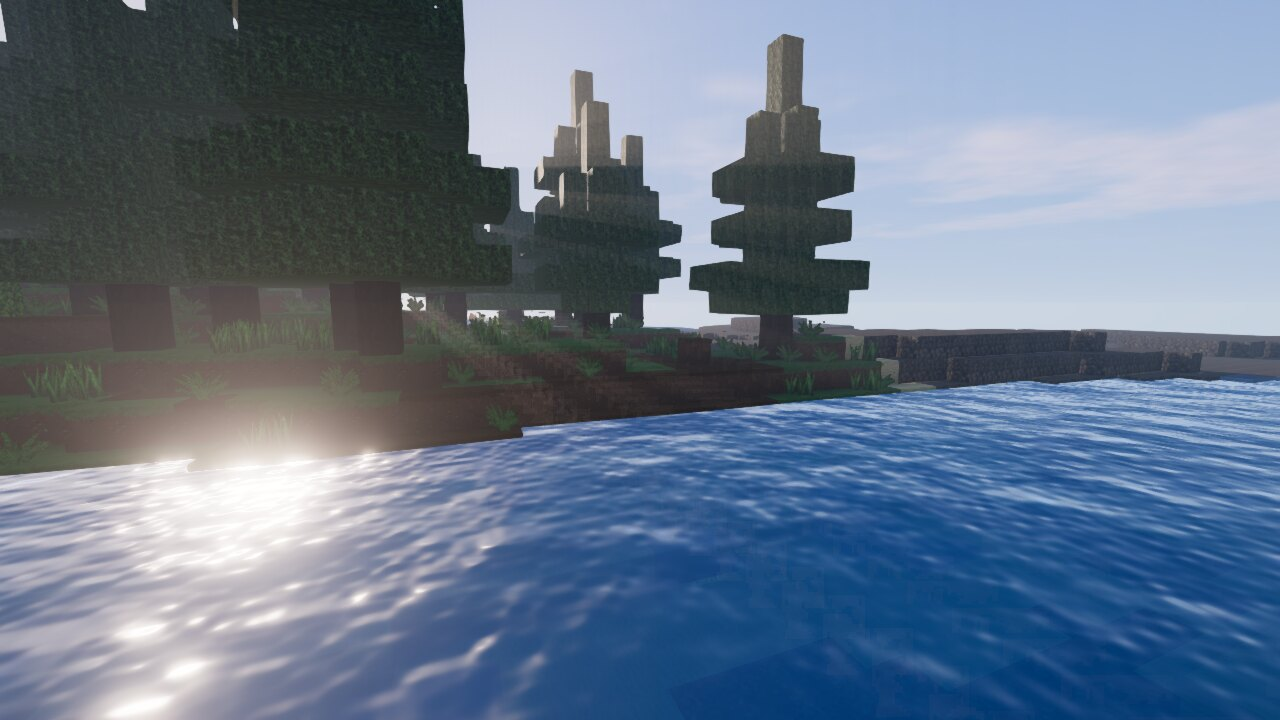
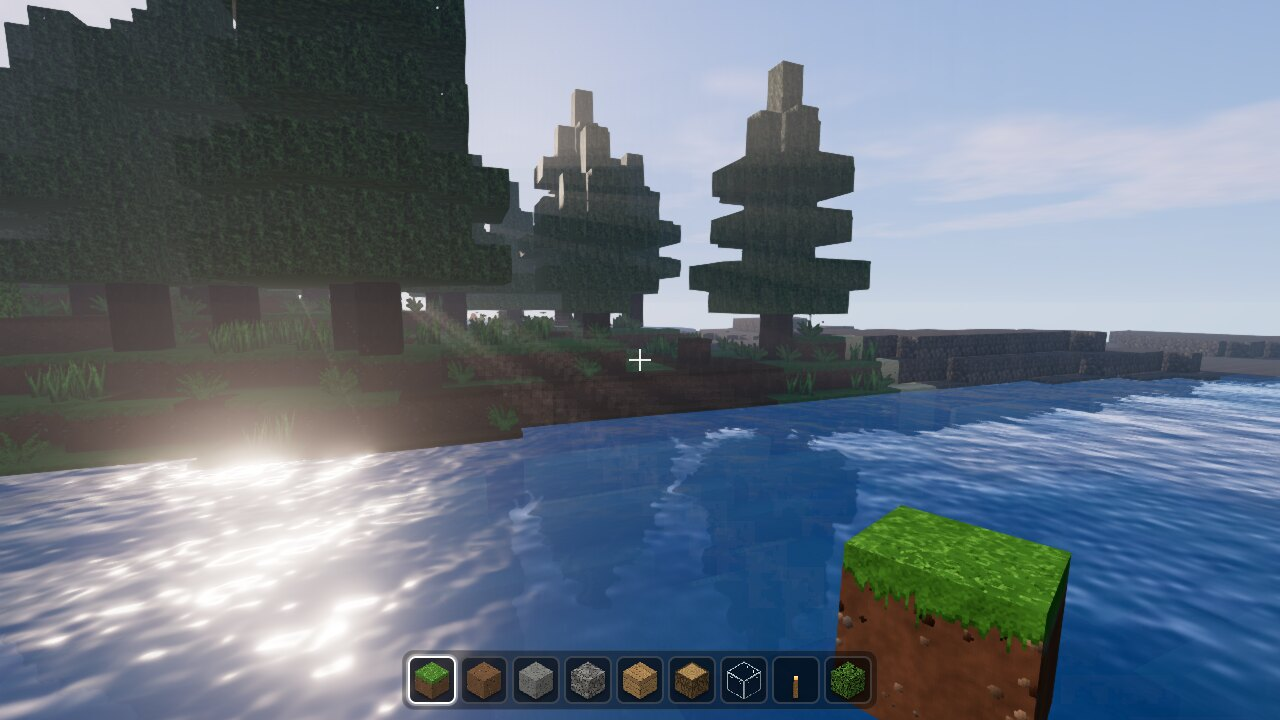
Add planar water reflections
Sea-level water now mirrors the terrain, trees and sky: the scene is
rendered from a camera mirrored below the water plane (clipped at the
surface, half resolution on High, 3/4 on Ultra) and sampled with
projective texturing plus wave distortion. The pass is skipped when no
water is on screen, when the camera is underwater, and until the shadow
map exists (avoids sampling an empty shadow texture after a settings
change).

Claude-Session: https://claude.ai/code/session_011Ff5eL321i6CHYwdhPLS1F

diff --git a/public/js/engine/renderer.js b/public/js/engine/renderer.js
@@ -9,15 +9,15 @@ import { OutputPass } from 'three/addons/postprocessing/OutputPass.js';
 import { FXAAPass } from 'three/addons/postprocessing/FXAAPass.js';
 import { Pass, FullScreenQuad } from 'three/addons/postprocessing/Pass.js';
 import {
-  U, createTerrainMaterial, createTerrainDepthMaterial, createWaterMaterial,
+  U, WATER_SURFACE_Y, createTerrainMaterial, createTerrainDepthMaterial, createWaterMaterial,
   createSkyMaterial, createCloudMaterial,
 } from './materials.js';
 
 export const QUALITY_PRESETS = {
-  low: { pixelRatio: 0.75, shadows: 0, shadowDist: 0, bloom: false, rays: false, fxaa: false, clouds: true },
-  medium: { pixelRatio: 1, shadows: 1024, shadowDist: 44, bloom: true, rays: false, fxaa: true, clouds: true },
-  high: { pixelRatio: 1.25, shadows: 2048, shadowDist: 72, bloom: true, rays: true, fxaa: true, clouds: true },
-  ultra: { pixelRatio: 2, shadows: 4096, shadowDist: 100, bloom: true, rays: true, fxaa: true, clouds: true },
+  low: { pixelRatio: 0.75, shadows: 0, shadowDist: 0, bloom: false, rays: false, fxaa: false, clouds: true, reflections: 0 },
+  medium: { pixelRatio: 1, shadows: 1024, shadowDist: 44, bloom: true, rays: false, fxaa: true, clouds: true, reflections: 0 },
+  high: { pixelRatio: 1.25, shadows: 2048, shadowDist: 72, bloom: true, rays: true, fxaa: true, clouds: true, reflections: 0.5 },
+  ultra: { pixelRatio: 2, shadows: 4096, shadowDist: 100, bloom: true, rays: true, fxaa: true, clouds: true, reflections: 0.75 },
 };
 
 class AtmospherePass extends Pass {
@@ -158,6 +158,21 @@ export class Renderer {
     this.clouds.frustumCulled = false;
     this.scene.add(this.clouds);
 
+    // Planar water reflections (rendered from a camera mirrored below sea level).
+    this.reflect = {
+      rt: null,
+      scale: 0,
+      camera: new THREE.PerspectiveCamera(),
+      plane: new THREE.Plane(new THREE.Vector3(0, 1, 0), -(WATER_SURFACE_Y - 0.08)),
+      bias: new THREE.Matrix4().set(0.5, 0, 0, 0.5, 0, 0.5, 0, 0.5, 0, 0, 0.5, 0.5, 0, 0, 0, 1),
+      frustum: new THREE.Frustum(),
+      projView: new THREE.Matrix4(),
+      fwd: new THREE.Vector3(),
+      up: new THREE.Vector3(),
+      target: new THREE.Vector3(),
+      rot: new THREE.Matrix4(),
+    };
+
     // Post-processing
     this.composer = null;
     this.timeOfDay = 0.1;
@@ -199,6 +214,12 @@ export class Renderer {
       s.camera.updateProjectionMatrix();
     }
     this.clouds.visible = q.clouds;
+    this.reflect.scale = q.reflections || 0;
+    if (!this.reflect.scale && this.reflect.rt) {
+      this.reflect.rt.dispose();
+      this.reflect.rt = null;
+    }
+    U.uReflEnabled.value = 0;
     this.camera.fov = this.settings.fov || 75;
     this.camera.updateProjectionMatrix();
     this._buildComposer();
@@ -370,11 +391,83 @@ export class Renderer {
     U.uHaze.value = 0.55 / Math.max(far * 2.2, 64);
   }
 
-  render() {
+  // waterMeshes: iterable of the world's water meshes (used to skip the
+  // reflection pass when no water is on screen).
+  render(waterMeshes) {
+    this._renderReflection(waterMeshes);
     this.composer.render();
   }
 
+  _renderReflection(waterMeshes) {
+    const R = this.reflect;
+    U.uReflEnabled.value = 0;
+    if (!R.scale || !waterMeshes) return;
+    const cam = this.camera;
+    if (cam.position.y < WATER_SURFACE_Y + 0.05) return;
+    // The shadow map is (re)created by the main pass; until it exists, shadowed
+    // materials would sample an empty texture, so wait one frame.
+    if (this.renderer.shadowMap.enabled && this.sun.castShadow && !this.sun.shadow.map) return;
+
+    // Is any sea-level water visible?
+    R.projView.multiplyMatrices(cam.projectionMatrix, cam.matrixWorldInverse);
+    R.frustum.setFromProjectionMatrix(R.projView);
+    let visible = false;
+    for (const m of waterMeshes) {
+      if (!m.geometry.boundingSphere) continue;
+      const sphere = this._sphere || (this._sphere = new THREE.Sphere());
+      sphere.copy(m.geometry.boundingSphere).applyMatrix4(m.matrixWorld);
+      if (R.frustum.intersectsSphere(sphere)) { visible = true; break; }
+    }
+    if (!visible) return;
+
+    const size = this.renderer.getDrawingBufferSize(this._tmpSize || (this._tmpSize = new THREE.Vector2()));
+    const w = Math.max(1, Math.round(size.x * R.scale)), h = Math.max(1, Math.round(size.y * R.scale));
+    if (!R.rt) {
+      R.rt = new THREE.WebGLRenderTarget(w, h, { type: THREE.HalfFloatType, depthBuffer: true });
+      R.rt.texture.name = 'water-reflection';
+    } else if (R.rt.width !== w || R.rt.height !== h) {
+      R.rt.setSize(w, h);
+    }
+
+    // Mirror the camera across the water plane.
+    const mc = R.camera;
+    const H = WATER_SURFACE_Y;
+    mc.fov = cam.fov; mc.aspect = cam.aspect; mc.near = cam.near; mc.far = cam.far;
+    mc.updateProjectionMatrix();
+    mc.position.set(cam.position.x, 2 * H - cam.position.y, cam.position.z);
+    R.rot.extractRotation(cam.matrixWorld);
+    R.fwd.set(0, 0, -1).applyMatrix4(R.rot);
+    R.fwd.y = -R.fwd.y;
+    R.up.set(0, 1, 0).applyMatrix4(R.rot);
+    R.up.y = -R.up.y;
+    mc.up.copy(R.up);
+    R.target.copy(mc.position).add(R.fwd);
+    mc.lookAt(R.target);
+    mc.updateMatrixWorld();
+    U.uReflMatrix.value.copy(R.bias).multiply(mc.projectionMatrix).multiply(mc.matrixWorldInverse);
+
+    // Render everything above the water (no water itself, no shadow update).
+    const r = this.renderer;
+    const prevTarget = r.getRenderTarget();
+    const prevAuto = r.shadowMap.autoUpdate;
+    const prevClip = r.clippingPlanes;
+    this.materials.water.visible = false;
+    r.shadowMap.autoUpdate = false;
+    r.shadowMap.needsUpdate = false;
+    r.clippingPlanes = [R.plane];
+    r.setRenderTarget(R.rt);
+    r.clear();
+    r.render(this.scene, mc);
+    r.setRenderTarget(prevTarget);
+    r.clippingPlanes = prevClip;
+    r.shadowMap.autoUpdate = prevAuto;
+    this.materials.water.visible = true;
+    U.uReflTex.value = R.rt.texture;
+    U.uReflEnabled.value = 1;
+  }
+
   dispose() {
+    this.reflect.rt?.dispose();
     this.composer?.dispose();
     this.renderer.dispose();
   }

diff --git a/public/js/engine/materials.js b/public/js/engine/materials.js
@@ -25,7 +25,13 @@ export const U = {
   uAlbedoArr: { value: null },
   uNormalArr: { value: null },
   uRain: { value: 0 },
+  uReflTex: { value: null },
+  uReflMatrix: { value: new THREE.Matrix4() },
+  uReflEnabled: { value: 0 },
 };
+
+// Height of the water surface at sea level (water tops sit at 14/16 of a block).
+export const WATER_SURFACE_Y = 62 + 14 / 16;
 
 export const SKY_GLSL = /* glsl */`
 uniform vec3 uSunDir;
@@ -339,6 +345,9 @@ export function createWaterMaterial() {
       uniform vec3 uSunColor;
       uniform float uSunIntensity;
       uniform vec3 uTorchColor;
+      uniform sampler2D uReflTex;
+      uniform mat4 uReflMatrix;
+      uniform float uReflEnabled;
       varying vec3 vWorldPos;
       varying vec3 vNormalW;
       varying vec2 vLightV;
@@ -387,6 +396,14 @@ export function createWaterMaterial() {
         float skyL = vLightV.x;
         float skyAmb = 0.08 + 0.92 * skyL * skyL;
         vec3 refl = skyColor(normalize(R)) * skyAmb;
+        // Planar reflection of the world (sea-level water only).
+        if (uReflEnabled > 0.5 && !below && vNormalW.y > 0.5 && abs(vWorldPos.y - ${WATER_SURFACE_Y.toFixed(4)}) < 0.25) {
+          vec4 rc = uReflMatrix * vec4(vWorldPos.x, ${WATER_SURFACE_Y.toFixed(4)}, vWorldPos.z, 1.0);
+          vec2 ruv = rc.xy / rc.w + N.xz * 0.035;
+          ruv = clamp(ruv, vec2(0.001), vec2(0.999));
+          vec3 world = texture2D(uReflTex, ruv).rgb;
+          refl = mix(refl, world * (0.35 + 0.65 * skyAmb), 0.92);
+        }
         float sunUp = smoothstep(-0.02, 0.1, uSunDir.y);
         float spec = pow(max(dot(R, uSunDir), 0.0), 420.0) * 22.0 + pow(max(dot(R, uSunDir), 0.0), 40.0) * 0.6;
         vec3 deep = vec3(0.01, 0.07, 0.1);

diff --git a/public/index.html b/public/index.html
@@ -177,7 +177,7 @@
             <select id="set-quality">
               <option value="low">Low – fastest</option>
               <option value="medium">Medium – shadows</option>
-              <option value="high">High – shadows + god rays</option>
+              <option value="high">High – shadows, god rays, reflections</option>
               <option value="ultra">Ultra – 4K shadows, full resolution</option>
             </select>
           </label>

diff --git a/public/js/engine/world.js b/public/js/engine/world.js
@@ -348,6 +348,10 @@ export class World {
     c.light = null;
   }
 
+  * waterMeshes() {
+    for (const c of this.chunks.values()) if (c.meshes.water) yield c.meshes.water;
+  }
+
   // Counts meshed chunks within `radius` chunks of a position (for loading screens).
   readiness(px, pz, radius) {
     const pcx = Math.floor(px / CHUNK_SIZE), pcz = Math.floor(pz / CHUNK_SIZE);

diff --git a/public/js/engine/game.js b/public/js/engine/game.js
@@ -432,7 +432,7 @@ export class Game {
       this.sound.updateAmbience(dt, { day: U.uDay.value, skyLight: el.sky, height: p.y, underwater });
     }
 
-    this.r.render();
+    this.r.render(this.world.waterMeshes());
     if (this.screenshotRequested) {
       this.screenshotRequested = false;
       this._saveScreenshot();

diff --git a/README.md b/README.md
@@ -1,7 +1,7 @@
 # RealisCraft – realistic Minecraft-style game in your browser
 
 A block-building sandbox with **realistic graphics**: real-time sun shadows, god rays through
-the trees, reflective animated water, waving grass and leaves, a day/night cycle with sunsets,
+the trees, animated water that mirrors the world around it, waving grass and leaves, a day/night cycle with sunsets,
 stars and moonlight, warm torch lighting in caves, and high-resolution (64×64) textures with
 normal maps.
 
@@ -95,8 +95,8 @@ the **Render distance**:
 
 - **Low** – no shadows or post-processing (fastest; good for laptops)
 - **Medium** – sun shadows + bloom
-- **High** – shadows, god rays, bloom (default)
-- **Ultra** – 4K shadow maps, full resolution
+- **High** – shadows, god rays, water reflections, bloom (default)
+- **Ultra** – 4K shadow maps, sharper reflections, full resolution
 
 The game needs a browser with WebGL 2 (all current versions of Chrome, Edge, Firefox and Safari).
 
